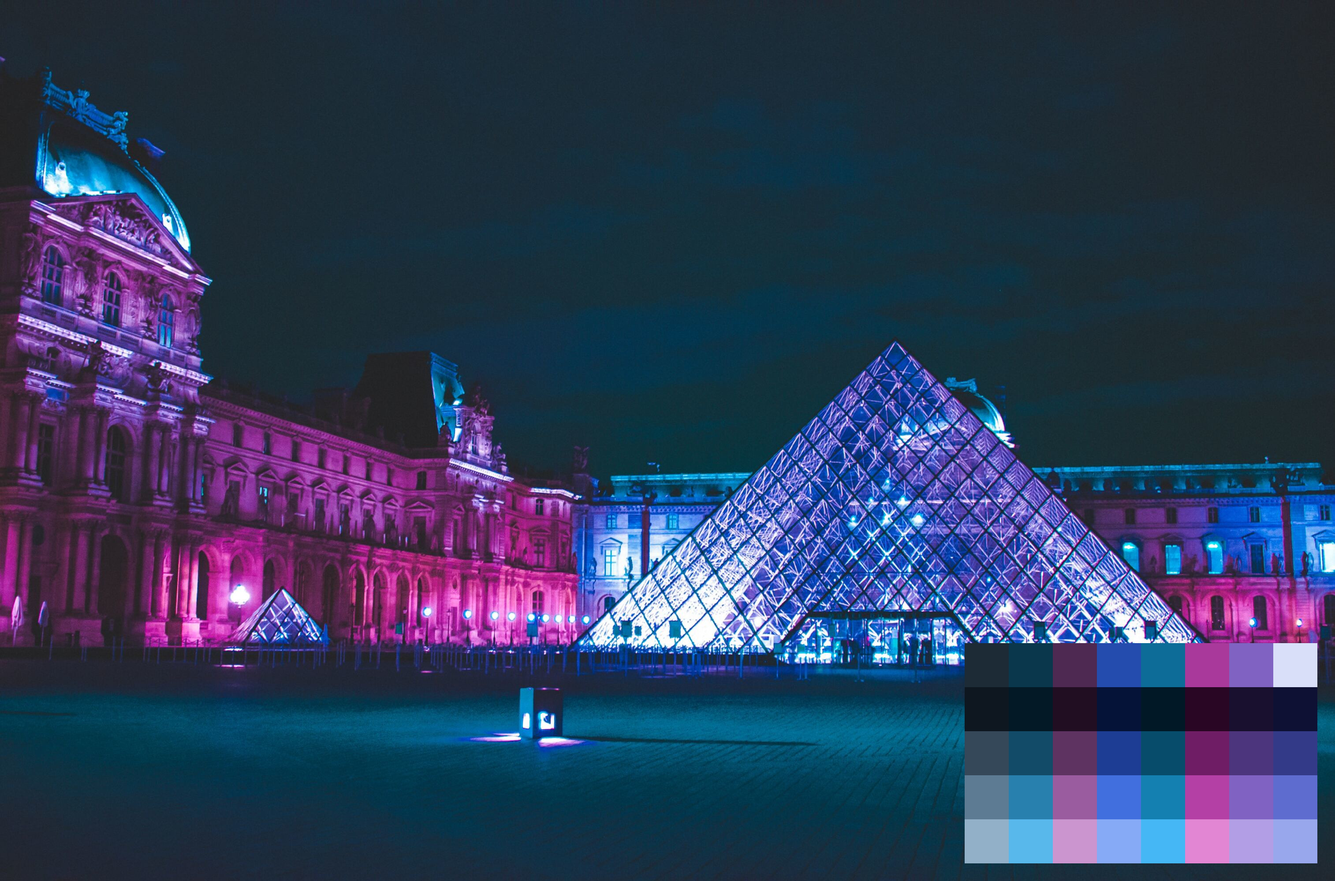
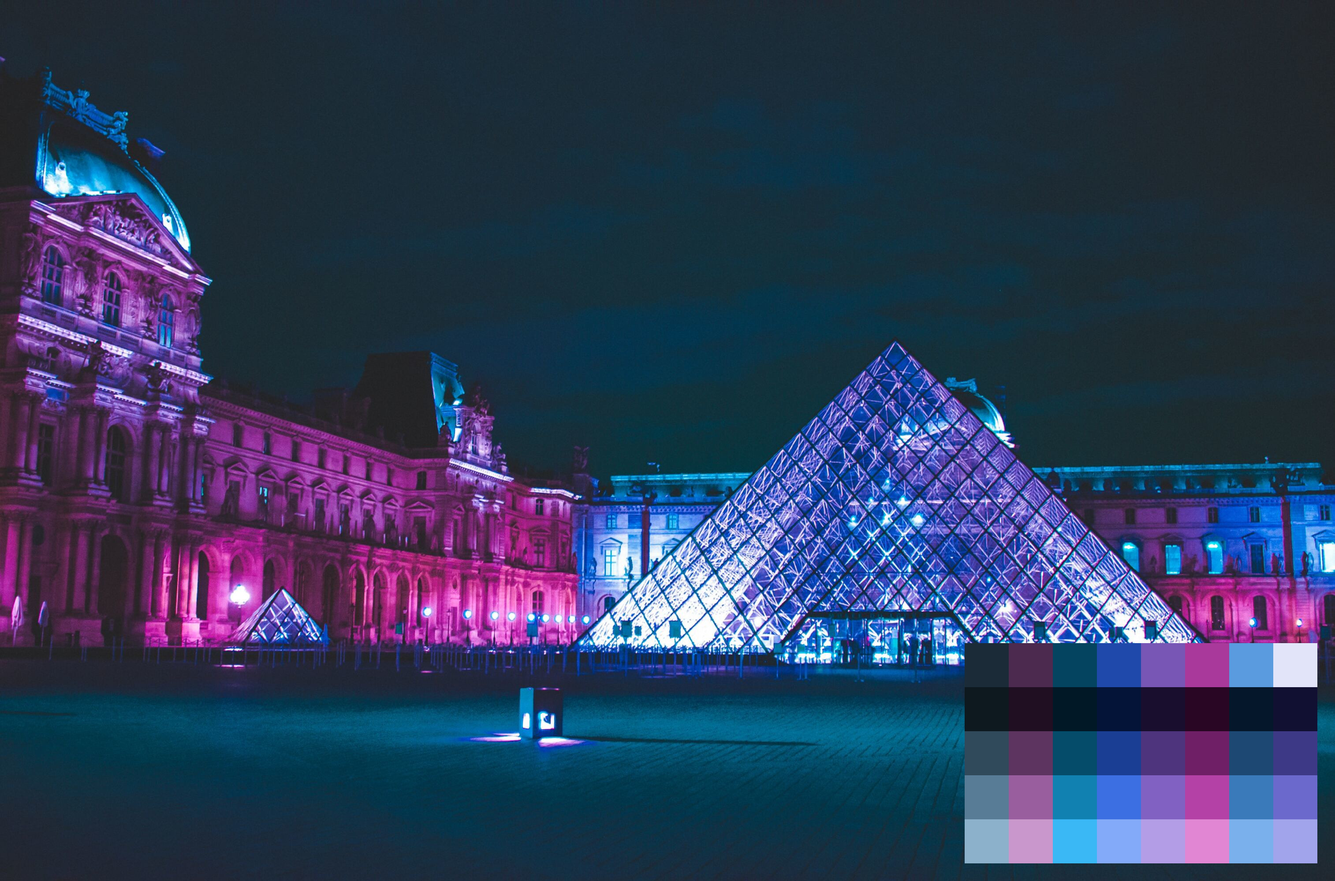
Update README examples

Changed region(s): [[0.745, 0.713, 0.9624, 0.992]]

diff --git a/README.md b/README.md
@@ -33,7 +33,7 @@ Running Okolors for this image with the default options gives the following sRGB
 
 ```bash
 > okolors 'img/Jewel Changi.jpg'
-020606 08373E E2E4E7 4F8091 4E2F26 CA835A 926F97 BB7B7B
+020707 0A3F48 E8E8E9 32221D 92ADBE CE8971 7C678D 814B3F
 ```
 
 If your terminal supports true color,
@@ -62,10 +62,10 @@ Let's get these colors in additional lightness levels using `-l`.
 ![](docs/swatch3.svg)
 
 If we're providing our own lightness levels, maybe we want to cluster the colors by hue and saturation only.
-Let's set the lightness weight to `0.01` using `-w`.
+Let's set the lightness weight to `0` using `-w`.
 
 ```bash
-> okolors 'img/Jewel Changi.jpg' -w 0.01 -l 10,30,50,70 -n 3 -e 0.01 -o swatch
+> okolors 'img/Jewel Changi.jpg' -w 0 -l 10,30,50,70 -n 3 -e 0.01 -o swatch
 ```
 
 ![](docs/swatch4.svg)
@@ -76,7 +76,7 @@ So, use this at your own discretion!
 If some of the colors still seem quite similar, then you can reduce/set the number of colors through `-k`.
 
 ```bash
-> okolors 'img/Jewel Changi.jpg' -k 7 -w 0.01 -l 10,30,50,70 -n 3 -e 0.01 -o swatch
+> okolors 'img/Jewel Changi.jpg' -k 7 -w 0 -l 10,30,50,70 -n 3 -e 0.01 -o swatch
 ```
 
 ![](docs/swatch5.svg)
@@ -86,7 +86,7 @@ Note that the CLI flags translate one-to-one with the library parameters, if the
 
 ## Images
 
-The flags `-n 3 -e 0.01 -l 10,30,50,70 -s l` were used for the additional examples below.
+The flags `-n 4 -e 0.01 -l 10,30,50,70 -s l` were used for the additional examples below.
 
 ![](docs/Lake%20Mendota.jpg)
 
